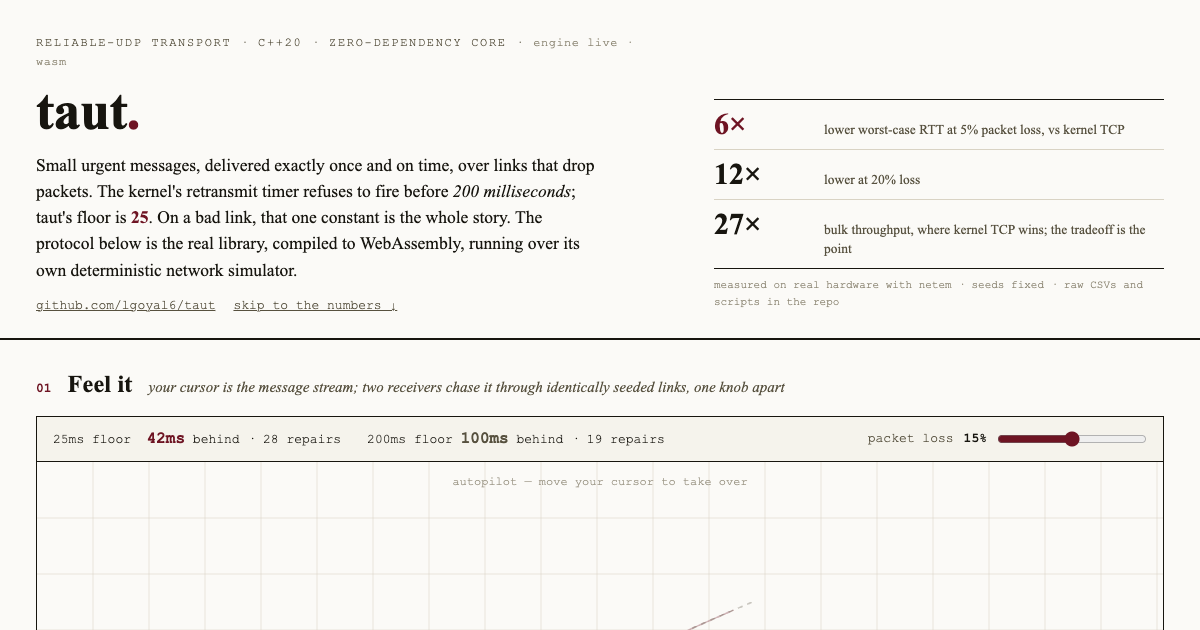
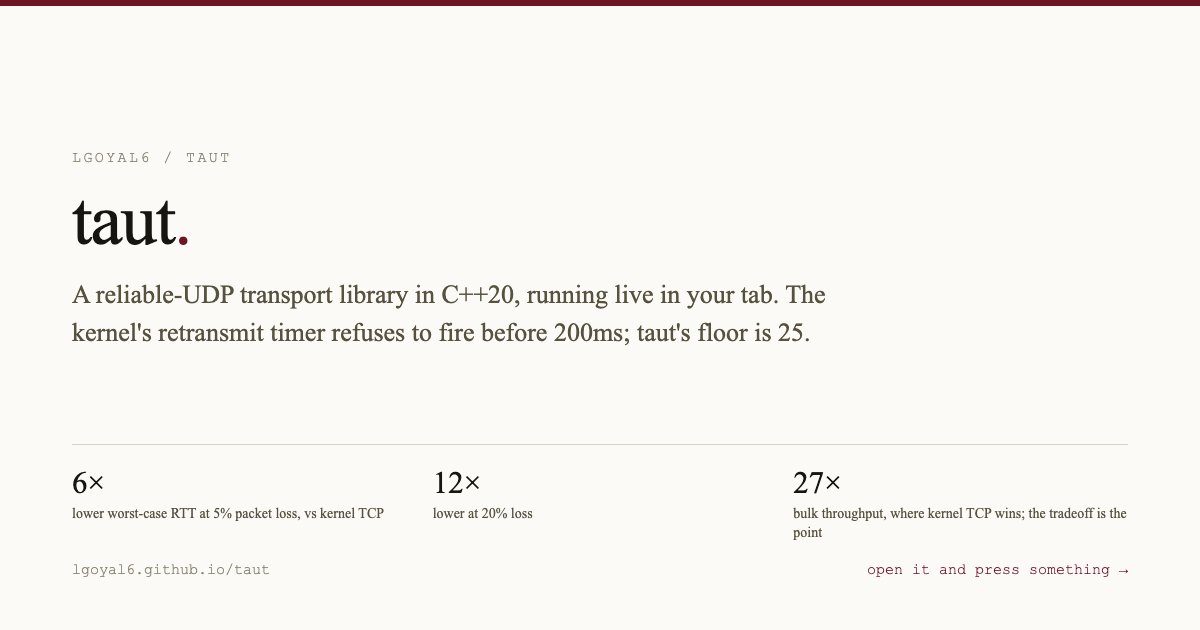
docs: lead the README with the demo card
The link to the live page sat twenty to thirty lines down, under the
architecture paragraph, so the first impression of the repo was prose.
Now the first thing in the README is a card carrying this project's
headline number, and clicking it opens the demo.

The same image is the og:image on the page, so a shared link previews
the finding instead of a bare URL. Also drops the lateral "also:"
footer links: each demo belongs to its own repository and has no
reason to advertise the others.

diff --git a/README.md b/README.md
@@ -1,3 +1,12 @@
+<a href="https://lgoyal6.github.io/taut/">
+  <img alt="taut - open the live demo" src="docs/og.png">
+</a>
+
+**[Open the live demo](https://lgoyal6.github.io/taut/)** - The real
+protocol code in your tab: your cursor becomes the message stream, and two receivers
+chase it through the same lossy link, a 25 ms retransmit floor against the kernel's
+200 ms. That one covers the transport; the recording above covers membership.
+
 # taut
 
 A purpose-built reliable-UDP transport for small-message meshes on lossy networks:
@@ -12,11 +21,6 @@ nodes gossiping, one partitioned away, 1020 ms to the first SUSPECT and 2020 ms
 to reconverge after the heal, with the reachable node never falsely confirmed
 dead. Deterministic by construction, so those numbers are the same on macOS and
 Linux. Reproduce with `./docs/demo-setup.sh && vhs docs/demo.tape`.
-
-**Live demo:** [lgoyal6.github.io/taut](https://lgoyal6.github.io/taut/), the real
-protocol code in your tab: your cursor becomes the message stream, and two receivers
-chase it through the same lossy link, a 25 ms retransmit floor against the kernel's
-200 ms. That one covers the transport; the recording above covers membership.
 
 ## Thesis
 
